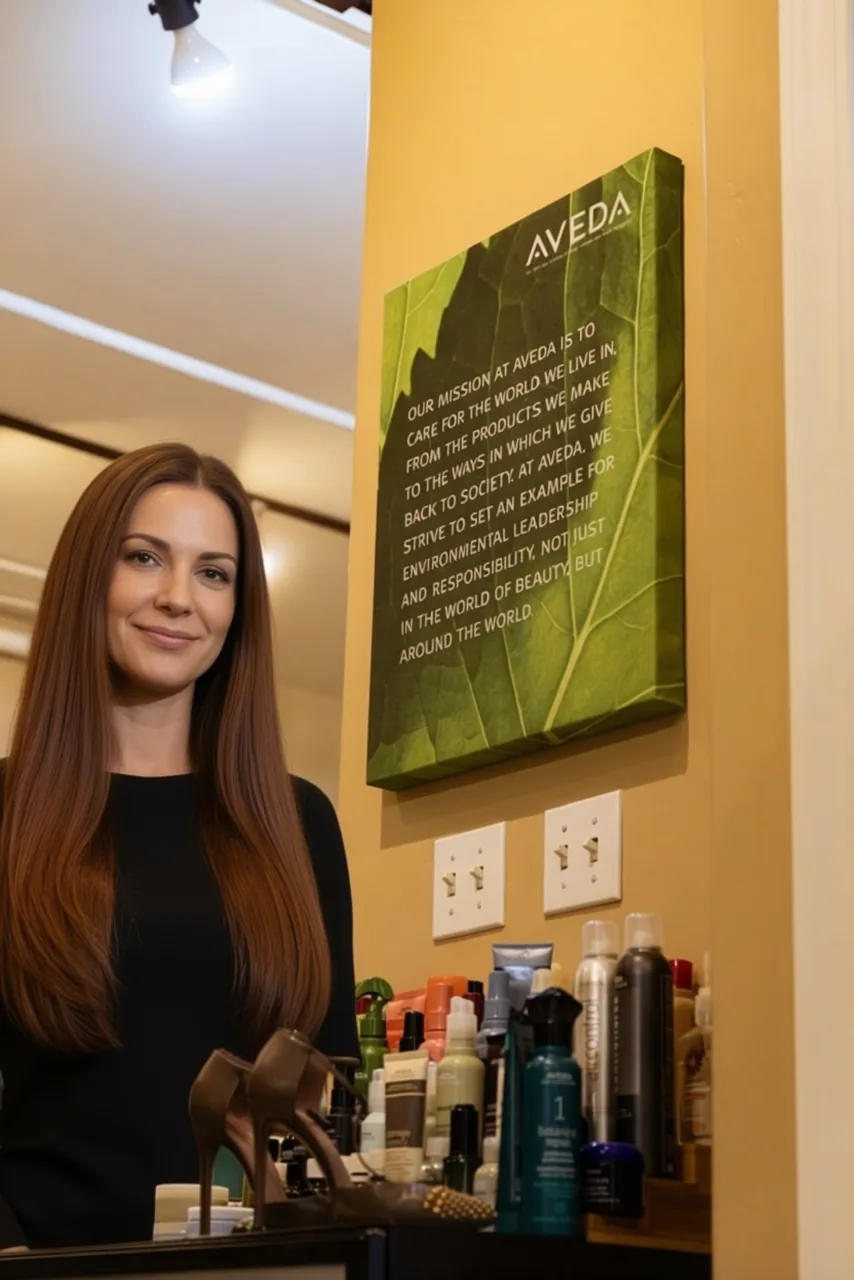
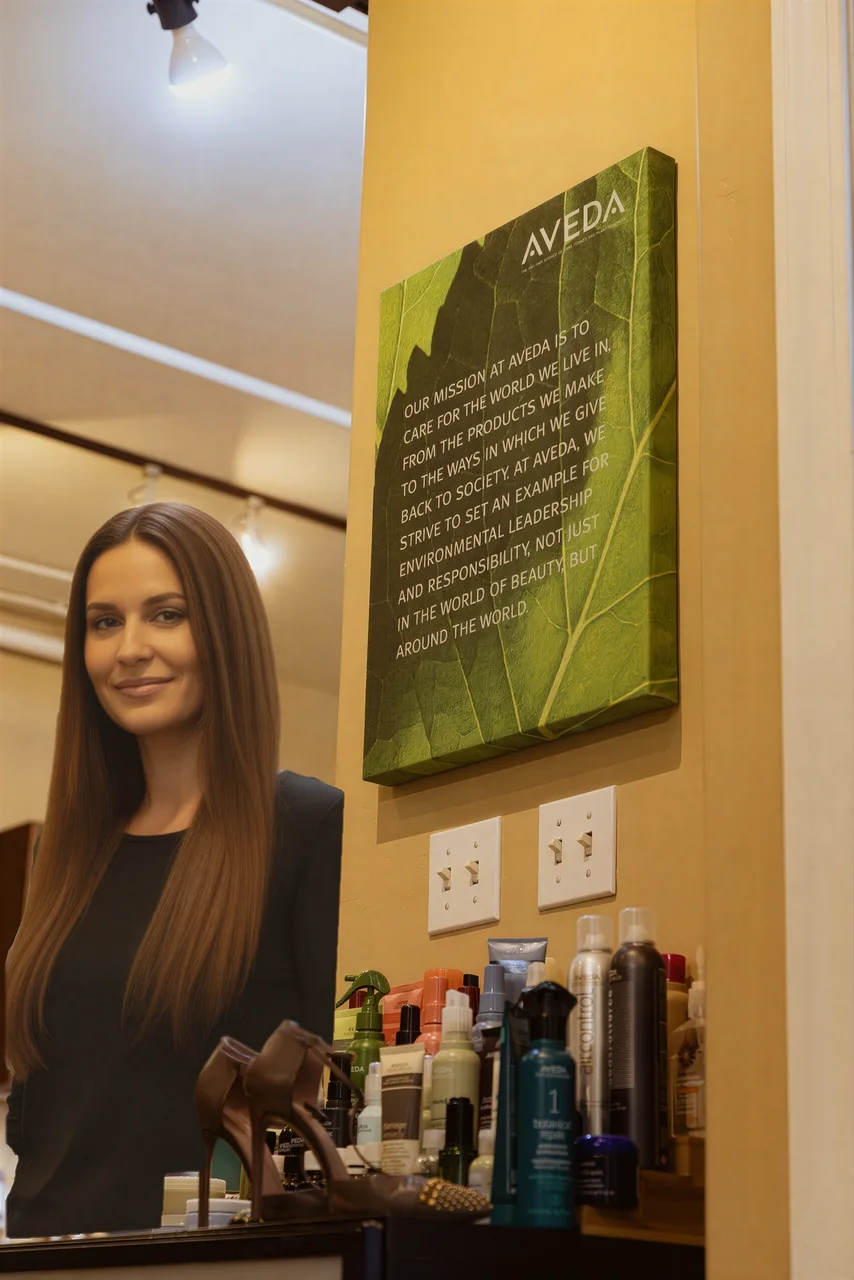
M/G/S menu: Extensions and Color Correction redone, each guest on her real room (task b1dd24c9)
Extensions: a generated guest (Qwen-Image-Edit 2511, local, seed 8, prompt with ankle boots and unlit logs) in a clean
profile toward the fire, long full wavy hair, boots flat on the floor. Color Correction: the seed 3 guest in the
doorway, even glossy warm brown hair. Both renders redrew the room (shelves, hinges, the camera), so only the guest is
pasted onto the photographer's photo (guest_paste.sh: Vision outline, colour-matched, contact zones), every other
pixel the real room's; SeedVR2 4x (job service), exported 640/960/1171 for the panel at J's 6K window (was 1.31x).
"Guest made with AI" in each corner as before. Checked: 1:1 and 3x (faces, hands, boots, hair edges, the canvas text),
the panel on a laptop and the row photo on a phone. Known: Color Correction's guest stands at the doorway's edge, her
left shoulder cut by the frame on a laptop. build.py 2.2-2.4 --check identical.

diff --git a/option-2.2-mgs/g/index.html b/option-2.2-mgs/g/index.html
@@ -2237,7 +2237,7 @@ html[data-motion="calm"] .av__row::before, html[data-motion="calm"] .av__row:las
           <div class="mn__name"><h3>Blonding</h3><p class="mn__trip">Bright. Seamless. Effortless.</p></div>
           <ul class="mn__prices"><li><span>Partial 175</span><b></b></li><li><span>Full 250</span><b></b></li><li><span>Signature Balayage 280+</span><b></b></li></ul>
         </li><li class="om__row mn__row a-up" style="--d:0.61s" data-i="2" tabindex="0" aria-expanded="false">
-          <figure class="mn__rph" aria-hidden="true"><img src="img/om-menu-color-correction.webp" alt="" decoding="async" loading="lazy" style="--pos:22% 42%"><p class="ai-mark">Guest made with AI</p></figure><span class="mn__n">03</span>
+          <figure class="mn__rph" aria-hidden="true"><img src="img/om-menu-color-correction.webp" srcset="img/hd/om-menu-color-correction-640.webp 640w, img/hd/om-menu-color-correction-960.webp 960w, img/hd/om-menu-color-correction-1171.webp 1171w" sizes="(max-width: 700px) 93vw, (max-width: 2000px) 38vw, 19vw" alt="" decoding="async" loading="lazy" style="--pos:22% 42%"><p class="ai-mark">Guest made with AI</p></figure><span class="mn__n">03</span>
           <div class="mn__name"><h3>Color Correction</h3><p class="mn__trip">Transform with Confidence.</p></div>
           <ul class="mn__prices"><li><span>150 per hour</span><b></b></li><li><span>Begins with a personal consultation</span><b></b></li></ul>
         </li><li class="om__row mn__row a-up" style="--d:0.69s" data-i="3" tabindex="0" aria-expanded="false">
@@ -2245,7 +2245,7 @@ html[data-motion="calm"] .av__row::before, html[data-motion="calm"] .av__row:las
           <div class="mn__name"><h3>Cut and Style</h3><p class="mn__trip">Polished. Modern. You.</p></div>
           <ul class="mn__prices"><li><span>Signature Haircut 105</span><b></b></li><li><span>Luxury Blowout 75</span><b></b></li></ul>
         </li><li class="om__row mn__row a-up" style="--d:0.77s" data-i="4" tabindex="0" aria-expanded="false">
-          <figure class="mn__rph" aria-hidden="true"><img src="img/om-menu-extensions.webp" alt="" decoding="async" loading="lazy" style="--pos:30% 52%"><p class="ai-mark">Guest made with AI</p></figure><span class="mn__n">05</span>
+          <figure class="mn__rph" aria-hidden="true"><img src="img/om-menu-extensions.webp" srcset="img/hd/om-menu-extensions-640.webp 640w, img/hd/om-menu-extensions-960.webp 960w, img/hd/om-menu-extensions-1171.webp 1171w" sizes="(max-width: 700px) 93vw, (max-width: 2000px) 38vw, 19vw" alt="" decoding="async" loading="lazy" style="--pos:30% 52%"><p class="ai-mark">Guest made with AI</p></figure><span class="mn__n">05</span>
           <div class="mn__name"><h3>Luxury Extensions</h3><p class="mn__trip">Length. Volume. Freedom.</p></div>
           <ul class="mn__prices"><li><span>Tape Install 195+</span><b></b></li><li><span>Hidden Bead 300+</span><b></b></li><li><span>Maintenance or Move-Up 150+ per row</span><b></b></li></ul>
         </li><li class="om__row mn__row a-up" style="--d:0.85s" data-i="5" tabindex="0" aria-expanded="false">
@@ -2254,7 +2254,7 @@ html[data-motion="calm"] .av__row::before, html[data-motion="calm"] .av__row:las
           <ul class="mn__prices"><li><span>Brow Wax 30</span><b></b></li></ul>
         </li></ol>
       <div class="mn__after"><p class="mn__note a-up" style="--d:.95s">A “+” means the service starts at that price. Extension hair is quoted separately during your consultation.</p><blockquote class="mn__beneath a-up" style="--d:1s">“She truly makes your time with her your own.”<cite>G.A., guest of Maggie</cite></blockquote><p class="cy__reward a-up" style="--d:1.10s"><span class="draft">Choose yours, knowing the price first. Salon OM welcomes guests by appointment, Monday to Friday.</span></p><div class="om__btn a-up" style="--d:1.1s"><a class="btn" href="#begin">Book your visit <span class="arr" aria-hidden="true">→</span></a></div></div>
-      <div class="om__ph mn__ph" aria-hidden="true"><img class="mn__img is-on is-ai" src="img/om-menu-signature-color.webp" srcset="img/hd/om-menu-signature-color-640.webp 640w, img/hd/om-menu-signature-color-960.webp 960w, img/hd/om-menu-signature-color-1171.webp 1171w" sizes="(max-width: 700px) 93vw, (max-width: 2000px) 38vw, 19vw" alt="A generated guest with rich, dimensional brunette colour in the styling chair by the window at Salon OM" decoding="async" loading="lazy" data-i="0" style="--pos:62% 45%"><img class="mn__img is-ai" src="img/om-menu-blonding.webp" srcset="img/hd/om-menu-blonding-640.webp 640w, img/hd/om-menu-blonding-960.webp 960w, img/hd/om-menu-blonding-1171.webp 1171w" sizes="(max-width: 700px) 93vw, (max-width: 2000px) 38vw, 18vw" alt="A generated guest with bright, seamless blonde hair reclining at a shampoo basin, in a photo of Salon OM" decoding="async" loading="lazy" data-i="1" style="--pos:45% 58%"><img class="mn__img is-ai" src="img/om-menu-color-correction.webp" alt="A generated guest with even, glossy warm brown hair in the doorway beside the Aveda canvas at Salon OM" decoding="async" loading="lazy" data-i="2" style="--pos:22% 42%"><img class="mn__img is-ai" src="img/om-menu-cut-and-style.webp" alt="A generated guest with a sleek, freshly cut bob in a styling chair, in a photo of Salon OM" decoding="async" loading="lazy" data-i="3" style="--pos:44% 50%"><img class="mn__img is-ai" src="img/om-menu-extensions.webp" alt="A generated guest with long, full, wavy hair on the bench by the fireplace, in a photo of Salon OM" decoding="async" loading="lazy" data-i="4" style="--pos:30% 52%"><img class="mn__img is-ai" src="img/om-menu-finishing-touches.webp" srcset="img/hd/om-menu-finishing-touches-640.webp 640w, img/hd/om-menu-finishing-touches-960.webp 960w, img/hd/om-menu-finishing-touches-1280.webp 1280w, img/hd/om-menu-finishing-touches-1920.webp 1920w, img/hd/om-menu-finishing-touches-2631.webp 2631w" sizes="(max-width: 700px) 93vw, (max-width: 2000px) 85vw, 41vw" alt="A generated guest with softly shaped brows holding a glo tube at the skincare display at Salon OM" decoding="async" loading="lazy" data-i="5" style="--pos:33% 32%"><p class="ai-mark">Guest made with AI</p></div>
+      <div class="om__ph mn__ph" aria-hidden="true"><img class="mn__img is-on is-ai" src="img/om-menu-signature-color.webp" srcset="img/hd/om-menu-signature-color-640.webp 640w, img/hd/om-menu-signature-color-960.webp 960w, img/hd/om-menu-signature-color-1171.webp 1171w" sizes="(max-width: 700px) 93vw, (max-width: 2000px) 38vw, 19vw" alt="A generated guest with rich, dimensional brunette colour in the styling chair by the window at Salon OM" decoding="async" loading="lazy" data-i="0" style="--pos:62% 45%"><img class="mn__img is-ai" src="img/om-menu-blonding.webp" srcset="img/hd/om-menu-blonding-640.webp 640w, img/hd/om-menu-blonding-960.webp 960w, img/hd/om-menu-blonding-1171.webp 1171w" sizes="(max-width: 700px) 93vw, (max-width: 2000px) 38vw, 18vw" alt="A generated guest with bright, seamless blonde hair reclining at a shampoo basin, in a photo of Salon OM" decoding="async" loading="lazy" data-i="1" style="--pos:45% 58%"><img class="mn__img is-ai" src="img/om-menu-color-correction.webp" srcset="img/hd/om-menu-color-correction-640.webp 640w, img/hd/om-menu-color-correction-960.webp 960w, img/hd/om-menu-color-correction-1171.webp 1171w" sizes="(max-width: 700px) 93vw, (max-width: 2000px) 38vw, 19vw" alt="A generated guest with even, glossy warm brown hair in the doorway beside the Aveda canvas at Salon OM" decoding="async" loading="lazy" data-i="2" style="--pos:22% 42%"><img class="mn__img is-ai" src="img/om-menu-cut-and-style.webp" alt="A generated guest with a sleek, freshly cut bob in a styling chair, in a photo of Salon OM" decoding="async" loading="lazy" data-i="3" style="--pos:44% 50%"><img class="mn__img is-ai" src="img/om-menu-extensions.webp" srcset="img/hd/om-menu-extensions-640.webp 640w, img/hd/om-menu-extensions-960.webp 960w, img/hd/om-menu-extensions-1171.webp 1171w" sizes="(max-width: 700px) 93vw, (max-width: 2000px) 38vw, 19vw" alt="A generated guest with long, full, wavy hair on the bench by the fireplace, in a photo of Salon OM" decoding="async" loading="lazy" data-i="4" style="--pos:30% 52%"><img class="mn__img is-ai" src="img/om-menu-finishing-touches.webp" srcset="img/hd/om-menu-finishing-touches-640.webp 640w, img/hd/om-menu-finishing-touches-960.webp 960w, img/hd/om-menu-finishing-touches-1280.webp 1280w, img/hd/om-menu-finishing-touches-1920.webp 1920w, img/hd/om-menu-finishing-touches-2631.webp 2631w" sizes="(max-width: 700px) 93vw, (max-width: 2000px) 85vw, 41vw" alt="A generated guest with softly shaped brows holding a glo tube at the skincare display at Salon OM" decoding="async" loading="lazy" data-i="5" style="--pos:33% 32%"><p class="ai-mark">Guest made with AI</p></div>
     </div>
     <div class="s__shade"></div>
   </section>

diff --git a/option-2.2-mgs/m/index.html b/option-2.2-mgs/m/index.html
@@ -2270,7 +2270,7 @@ html[data-motion="calm"] .av__row::before, html[data-motion="calm"] .av__row:las
           <div class="mn__name"><h3>Blonding</h3><p class="mn__trip">Bright. Seamless. Effortless.</p></div>
           <ul class="mn__prices"><li><span>Partial 175</span><b></b></li><li><span>Full 250</span><b></b></li><li><span>Signature Balayage 280+</span><b></b></li></ul>
         </li><li class="om__row mn__row a-up" style="--d:0.61s" data-i="2" tabindex="0" aria-expanded="false">
-          <figure class="mn__rph" aria-hidden="true"><img src="img/om-menu-color-correction.webp" alt="" decoding="async" loading="lazy" style="--pos:22% 42%"><p class="ai-mark">Guest made with AI</p></figure><span class="mn__n">03</span>
+          <figure class="mn__rph" aria-hidden="true"><img src="img/om-menu-color-correction.webp" srcset="img/hd/om-menu-color-correction-640.webp 640w, img/hd/om-menu-color-correction-960.webp 960w, img/hd/om-menu-color-correction-1171.webp 1171w" sizes="(max-width: 700px) 93vw, (max-width: 2000px) 38vw, 19vw" alt="" decoding="async" loading="lazy" style="--pos:22% 42%"><p class="ai-mark">Guest made with AI</p></figure><span class="mn__n">03</span>
           <div class="mn__name"><h3>Color Correction</h3><p class="mn__trip">Transform with Confidence.</p></div>
           <ul class="mn__prices"><li><span>150 per hour</span><b></b></li><li><span>Begins with a personal consultation</span><b></b></li></ul>
         </li><li class="om__row mn__row a-up" style="--d:0.69s" data-i="3" tabindex="0" aria-expanded="false">
@@ -2278,7 +2278,7 @@ html[data-motion="calm"] .av__row::before, html[data-motion="calm"] .av__row:las
           <div class="mn__name"><h3>Cut and Style</h3><p class="mn__trip">Polished. Modern. You.</p></div>
           <ul class="mn__prices"><li><span>Signature Haircut 105</span><b></b></li><li><span>Luxury Blowout 75</span><b></b></li></ul>
         </li><li class="om__row mn__row a-up" style="--d:0.77s" data-i="4" tabindex="0" aria-expanded="false">
-          <figure class="mn__rph" aria-hidden="true"><img src="img/om-menu-extensions.webp" alt="" decoding="async" loading="lazy" style="--pos:30% 52%"><p class="ai-mark">Guest made with AI</p></figure><span class="mn__n">05</span>
+          <figure class="mn__rph" aria-hidden="true"><img src="img/om-menu-extensions.webp" srcset="img/hd/om-menu-extensions-640.webp 640w, img/hd/om-menu-extensions-960.webp 960w, img/hd/om-menu-extensions-1171.webp 1171w" sizes="(max-width: 700px) 93vw, (max-width: 2000px) 38vw, 19vw" alt="" decoding="async" loading="lazy" style="--pos:30% 52%"><p class="ai-mark">Guest made with AI</p></figure><span class="mn__n">05</span>
           <div class="mn__name"><h3>Luxury Extensions</h3><p class="mn__trip">Length. Volume. Freedom.</p></div>
           <ul class="mn__prices"><li><span>Tape Install 195+</span><b></b></li><li><span>Hidden Bead 300+</span><b></b></li><li><span>Maintenance or Move-Up 150+ per row</span><b></b></li></ul>
         </li><li class="om__row mn__row a-up" style="--d:0.85s" data-i="5" tabindex="0" aria-expanded="false">
@@ -2287,7 +2287,7 @@ html[data-motion="calm"] .av__row::before, html[data-motion="calm"] .av__row:las
           <ul class="mn__prices"><li><span>Brow Wax 30</span><b></b></li></ul>
         </li></ol>
       <div class="mn__after"><p class="mn__note a-up" style="--d:.95s">A “+” means the service starts at that price. Extension hair is quoted separately during your consultation.</p><blockquote class="mn__beneath a-up" style="--d:1s">“She truly makes your time with her your own.”<cite>G.A., guest of Maggie</cite></blockquote><div class="om__btn a-up" style="--d:1.1s"><a class="btn btn--light" href="#begin">Book your visit <span class="arr" aria-hidden="true">→</span></a></div></div>
-      <div class="om__ph mn__ph" aria-hidden="true"><img class="mn__img is-on is-ai" src="img/om-menu-signature-color.webp" srcset="img/hd/om-menu-signature-color-640.webp 640w, img/hd/om-menu-signature-color-960.webp 960w, img/hd/om-menu-signature-color-1171.webp 1171w" sizes="(max-width: 700px) 93vw, (max-width: 2000px) 36vw, 17vw" alt="A generated guest with rich, dimensional brunette colour in the styling chair by the window at Salon OM" decoding="async" loading="lazy" data-i="0" style="--pos:62% 45%"><img class="mn__img is-ai" src="img/om-menu-blonding.webp" srcset="img/hd/om-menu-blonding-640.webp 640w, img/hd/om-menu-blonding-960.webp 960w, img/hd/om-menu-blonding-1171.webp 1171w" sizes="(max-width: 700px) 93vw, (max-width: 2000px) 38vw, 19vw" alt="A generated guest with bright, seamless blonde hair reclining at a shampoo basin, in a photo of Salon OM" decoding="async" loading="lazy" data-i="1" style="--pos:45% 58%"><img class="mn__img is-ai" src="img/om-menu-color-correction.webp" alt="A generated guest with even, glossy warm brown hair in the doorway beside the Aveda canvas at Salon OM" decoding="async" loading="lazy" data-i="2" style="--pos:22% 42%"><img class="mn__img is-ai" src="img/om-menu-cut-and-style.webp" alt="A generated guest with a sleek, freshly cut bob in a styling chair, in a photo of Salon OM" decoding="async" loading="lazy" data-i="3" style="--pos:44% 50%"><img class="mn__img is-ai" src="img/om-menu-extensions.webp" alt="A generated guest with long, full, wavy hair on the bench by the fireplace, in a photo of Salon OM" decoding="async" loading="lazy" data-i="4" style="--pos:30% 52%"><img class="mn__img is-ai" src="img/om-menu-finishing-touches.webp" srcset="img/hd/om-menu-finishing-touches-640.webp 640w, img/hd/om-menu-finishing-touches-960.webp 960w, img/hd/om-menu-finishing-touches-1280.webp 1280w, img/hd/om-menu-finishing-touches-1920.webp 1920w, img/hd/om-menu-finishing-touches-2631.webp 2631w" sizes="(max-width: 700px) 93vw, (max-width: 2000px) 85vw, 41vw" alt="A generated guest with softly shaped brows holding a glo tube at the skincare display at Salon OM" decoding="async" loading="lazy" data-i="5" style="--pos:33% 32%"><p class="ai-mark">Guest made with AI</p></div>
+      <div class="om__ph mn__ph" aria-hidden="true"><img class="mn__img is-on is-ai" src="img/om-menu-signature-color.webp" srcset="img/hd/om-menu-signature-color-640.webp 640w, img/hd/om-menu-signature-color-960.webp 960w, img/hd/om-menu-signature-color-1171.webp 1171w" sizes="(max-width: 700px) 93vw, (max-width: 2000px) 36vw, 17vw" alt="A generated guest with rich, dimensional brunette colour in the styling chair by the window at Salon OM" decoding="async" loading="lazy" data-i="0" style="--pos:62% 45%"><img class="mn__img is-ai" src="img/om-menu-blonding.webp" srcset="img/hd/om-menu-blonding-640.webp 640w, img/hd/om-menu-blonding-960.webp 960w, img/hd/om-menu-blonding-1171.webp 1171w" sizes="(max-width: 700px) 93vw, (max-width: 2000px) 38vw, 19vw" alt="A generated guest with bright, seamless blonde hair reclining at a shampoo basin, in a photo of Salon OM" decoding="async" loading="lazy" data-i="1" style="--pos:45% 58%"><img class="mn__img is-ai" src="img/om-menu-color-correction.webp" srcset="img/hd/om-menu-color-correction-640.webp 640w, img/hd/om-menu-color-correction-960.webp 960w, img/hd/om-menu-color-correction-1171.webp 1171w" sizes="(max-width: 700px) 93vw, (max-width: 2000px) 38vw, 19vw" alt="A generated guest with even, glossy warm brown hair in the doorway beside the Aveda canvas at Salon OM" decoding="async" loading="lazy" data-i="2" style="--pos:22% 42%"><img class="mn__img is-ai" src="img/om-menu-cut-and-style.webp" alt="A generated guest with a sleek, freshly cut bob in a styling chair, in a photo of Salon OM" decoding="async" loading="lazy" data-i="3" style="--pos:44% 50%"><img class="mn__img is-ai" src="img/om-menu-extensions.webp" srcset="img/hd/om-menu-extensions-640.webp 640w, img/hd/om-menu-extensions-960.webp 960w, img/hd/om-menu-extensions-1171.webp 1171w" sizes="(max-width: 700px) 93vw, (max-width: 2000px) 38vw, 19vw" alt="A generated guest with long, full, wavy hair on the bench by the fireplace, in a photo of Salon OM" decoding="async" loading="lazy" data-i="4" style="--pos:30% 52%"><img class="mn__img is-ai" src="img/om-menu-finishing-touches.webp" srcset="img/hd/om-menu-finishing-touches-640.webp 640w, img/hd/om-menu-finishing-touches-960.webp 960w, img/hd/om-menu-finishing-touches-1280.webp 1280w, img/hd/om-menu-finishing-touches-1920.webp 1920w, img/hd/om-menu-finishing-touches-2631.webp 2631w" sizes="(max-width: 700px) 93vw, (max-width: 2000px) 85vw, 41vw" alt="A generated guest with softly shaped brows holding a glo tube at the skincare display at Salon OM" decoding="async" loading="lazy" data-i="5" style="--pos:33% 32%"><p class="ai-mark">Guest made with AI</p></div>
     </div>
     <div class="s__shade"></div>
   </section>

diff --git a/option-2.2-mgs/s/index.html b/option-2.2-mgs/s/index.html
@@ -2168,7 +2168,7 @@ html[data-motion="calm"] .av__row::before, html[data-motion="calm"] .av__row:las
           <div class="mn__name"><h3>Blonding</h3><p class="mn__trip">Bright. Seamless. Effortless.</p></div>
           <ul class="mn__prices"><li><span>Partial 175</span><b></b></li><li><span>Full 250</span><b></b></li><li><span>Signature Balayage 280+</span><b></b></li></ul>
         </li><li class="om__row mn__row a-up" style="--d:0.61s" data-i="2" tabindex="0" aria-expanded="false">
-          <figure class="mn__rph" aria-hidden="true"><img src="img/om-menu-color-correction.webp" alt="" decoding="async" loading="lazy" style="--pos:22% 42%"><p class="ai-mark">Guest made with AI</p></figure><span class="mn__n">03</span>
+          <figure class="mn__rph" aria-hidden="true"><img src="img/om-menu-color-correction.webp" srcset="img/hd/om-menu-color-correction-640.webp 640w, img/hd/om-menu-color-correction-960.webp 960w, img/hd/om-menu-color-correction-1171.webp 1171w" sizes="(max-width: 700px) 93vw, (max-width: 2000px) 38vw, 19vw" alt="" decoding="async" loading="lazy" style="--pos:22% 42%"><p class="ai-mark">Guest made with AI</p></figure><span class="mn__n">03</span>
           <div class="mn__name"><h3>Color Correction</h3><p class="mn__trip">Transform with Confidence.</p></div>
           <ul class="mn__prices"><li><span>150 per hour</span><b></b></li><li><span>Begins with a personal consultation</span><b></b></li></ul>
         </li><li class="om__row mn__row a-up" style="--d:0.69s" data-i="3" tabindex="0" aria-expanded="false">
@@ -2176,7 +2176,7 @@ html[data-motion="calm"] .av__row::before, html[data-motion="calm"] .av__row:las
           <div class="mn__name"><h3>Cut and Style</h3><p class="mn__trip">Polished. Modern. You.</p></div>
           <ul class="mn__prices"><li><span>Signature Haircut 105</span><b></b></li><li><span>Luxury Blowout 75</span><b></b></li></ul>
         </li><li class="om__row mn__row a-up" style="--d:0.77s" data-i="4" tabindex="0" aria-expanded="false">
-          <figure class="mn__rph" aria-hidden="true"><img src="img/om-menu-extensions.webp" alt="" decoding="async" loading="lazy" style="--pos:30% 52%"><p class="ai-mark">Guest made with AI</p></figure><span class="mn__n">05</span>
+          <figure class="mn__rph" aria-hidden="true"><img src="img/om-menu-extensions.webp" srcset="img/hd/om-menu-extensions-640.webp 640w, img/hd/om-menu-extensions-960.webp 960w, img/hd/om-menu-extensions-1171.webp 1171w" sizes="(max-width: 700px) 93vw, (max-width: 2000px) 38vw, 19vw" alt="" decoding="async" loading="lazy" style="--pos:30% 52%"><p class="ai-mark">Guest made with AI</p></figure><span class="mn__n">05</span>
           <div class="mn__name"><h3>Luxury Extensions</h3><p class="mn__trip">Length. Volume. Freedom.</p></div>
           <ul class="mn__prices"><li><span>Tape Install 195+</span><b></b></li><li><span>Hidden Bead 300+</span><b></b></li><li><span>Maintenance or Move-Up 150+ per row</span><b></b></li></ul>
         </li><li class="om__row mn__row a-up" style="--d:0.85s" data-i="5" tabindex="0" aria-expanded="false">
@@ -2185,7 +2185,7 @@ html[data-motion="calm"] .av__row::before, html[data-motion="calm"] .av__row:las
           <ul class="mn__prices"><li><span>Brow Wax 30</span><b></b></li></ul>
         </li></ol>
       <div class="mn__after"><p class="mn__note a-up" style="--d:.95s">A “+” means the service starts at that price. Extension hair is quoted separately during your consultation.</p><blockquote class="mn__beneath a-up" style="--d:1s">“She truly makes your time with her your own.”<cite>G.A., guest of Maggie</cite></blockquote><div class="om__btn a-up" style="--d:1.1s"><a class="btn btn--light" href="#begin">Book your visit <span class="arr" aria-hidden="true">→</span></a></div></div>
-      <div class="om__ph mn__ph" aria-hidden="true"><img class="mn__img is-on is-ai" src="img/om-menu-signature-color.webp" srcset="img/hd/om-menu-signature-color-640.webp 640w, img/hd/om-menu-signature-color-960.webp 960w, img/hd/om-menu-signature-color-1171.webp 1171w" sizes="(max-width: 700px) 93vw, (max-width: 2000px) 38vw, 18vw" alt="A generated guest with rich, dimensional brunette colour in the styling chair by the window at Salon OM" decoding="async" loading="lazy" data-i="0" style="--pos:62% 45%"><img class="mn__img is-ai" src="img/om-menu-blonding.webp" srcset="img/hd/om-menu-blonding-640.webp 640w, img/hd/om-menu-blonding-960.webp 960w, img/hd/om-menu-blonding-1171.webp 1171w" sizes="(max-width: 700px) 93vw, (max-width: 2000px) 36vw, 19vw" alt="A generated guest with bright, seamless blonde hair reclining at a shampoo basin, in a photo of Salon OM" decoding="async" loading="lazy" data-i="1" style="--pos:45% 58%"><img class="mn__img is-ai" src="img/om-menu-color-correction.webp" alt="A generated guest with even, glossy warm brown hair in the doorway beside the Aveda canvas at Salon OM" decoding="async" loading="lazy" data-i="2" style="--pos:22% 42%"><img class="mn__img is-ai" src="img/om-menu-cut-and-style.webp" alt="A generated guest with a sleek, freshly cut bob in a styling chair, in a photo of Salon OM" decoding="async" loading="lazy" data-i="3" style="--pos:44% 50%"><img class="mn__img is-ai" src="img/om-menu-extensions.webp" alt="A generated guest with long, full, wavy hair on the bench by the fireplace, in a photo of Salon OM" decoding="async" loading="lazy" data-i="4" style="--pos:30% 52%"><img class="mn__img is-ai" src="img/om-menu-finishing-touches.webp" srcset="img/hd/om-menu-finishing-touches-640.webp 640w, img/hd/om-menu-finishing-touches-960.webp 960w, img/hd/om-menu-finishing-touches-1280.webp 1280w, img/hd/om-menu-finishing-touches-1920.webp 1920w, img/hd/om-menu-finishing-touches-2631.webp 2631w" sizes="(max-width: 700px) 93vw, (max-width: 2000px) 85vw, 41vw" alt="A generated guest with softly shaped brows holding a glo tube at the skincare display at Salon OM" decoding="async" loading="lazy" data-i="5" style="--pos:33% 32%"><p class="ai-mark">Guest made with AI</p></div>
+      <div class="om__ph mn__ph" aria-hidden="true"><img class="mn__img is-on is-ai" src="img/om-menu-signature-color.webp" srcset="img/hd/om-menu-signature-color-640.webp 640w, img/hd/om-menu-signature-color-960.webp 960w, img/hd/om-menu-signature-color-1171.webp 1171w" sizes="(max-width: 700px) 93vw, (max-width: 2000px) 38vw, 18vw" alt="A generated guest with rich, dimensional brunette colour in the styling chair by the window at Salon OM" decoding="async" loading="lazy" data-i="0" style="--pos:62% 45%"><img class="mn__img is-ai" src="img/om-menu-blonding.webp" srcset="img/hd/om-menu-blonding-640.webp 640w, img/hd/om-menu-blonding-960.webp 960w, img/hd/om-menu-blonding-1171.webp 1171w" sizes="(max-width: 700px) 93vw, (max-width: 2000px) 36vw, 19vw" alt="A generated guest with bright, seamless blonde hair reclining at a shampoo basin, in a photo of Salon OM" decoding="async" loading="lazy" data-i="1" style="--pos:45% 58%"><img class="mn__img is-ai" src="img/om-menu-color-correction.webp" srcset="img/hd/om-menu-color-correction-640.webp 640w, img/hd/om-menu-color-correction-960.webp 960w, img/hd/om-menu-color-correction-1171.webp 1171w" sizes="(max-width: 700px) 93vw, (max-width: 2000px) 38vw, 19vw" alt="A generated guest with even, glossy warm brown hair in the doorway beside the Aveda canvas at Salon OM" decoding="async" loading="lazy" data-i="2" style="--pos:22% 42%"><img class="mn__img is-ai" src="img/om-menu-cut-and-style.webp" alt="A generated guest with a sleek, freshly cut bob in a styling chair, in a photo of Salon OM" decoding="async" loading="lazy" data-i="3" style="--pos:44% 50%"><img class="mn__img is-ai" src="img/om-menu-extensions.webp" srcset="img/hd/om-menu-extensions-640.webp 640w, img/hd/om-menu-extensions-960.webp 960w, img/hd/om-menu-extensions-1171.webp 1171w" sizes="(max-width: 700px) 93vw, (max-width: 2000px) 38vw, 19vw" alt="A generated guest with long, full, wavy hair on the bench by the fireplace, in a photo of Salon OM" decoding="async" loading="lazy" data-i="4" style="--pos:30% 52%"><img class="mn__img is-ai" src="img/om-menu-finishing-touches.webp" srcset="img/hd/om-menu-finishing-touches-640.webp 640w, img/hd/om-menu-finishing-touches-960.webp 960w, img/hd/om-menu-finishing-touches-1280.webp 1280w, img/hd/om-menu-finishing-touches-1920.webp 1920w, img/hd/om-menu-finishing-touches-2631.webp 2631w" sizes="(max-width: 700px) 93vw, (max-width: 2000px) 85vw, 41vw" alt="A generated guest with softly shaped brows holding a glo tube at the skincare display at Salon OM" decoding="async" loading="lazy" data-i="5" style="--pos:33% 32%"><p class="ai-mark">Guest made with AI</p></div>
     </div>
     <div class="s__shade"></div>
   </section>
